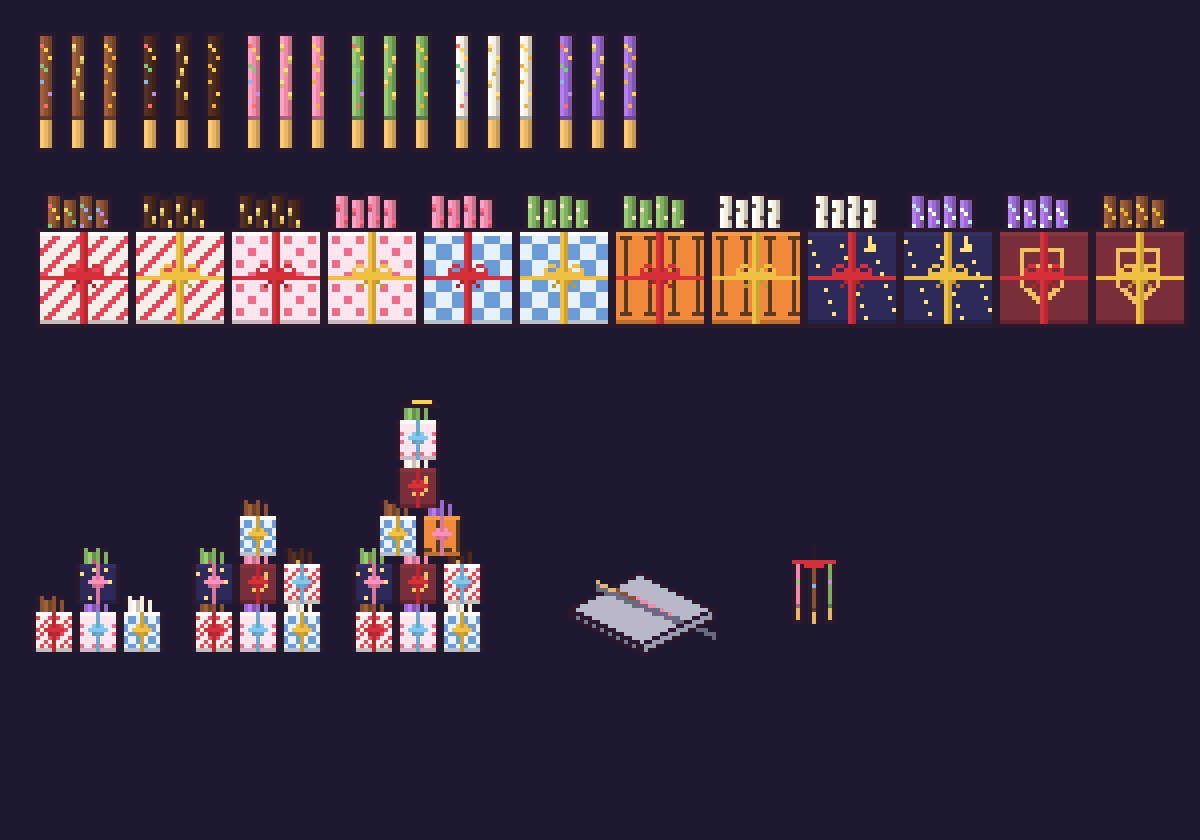
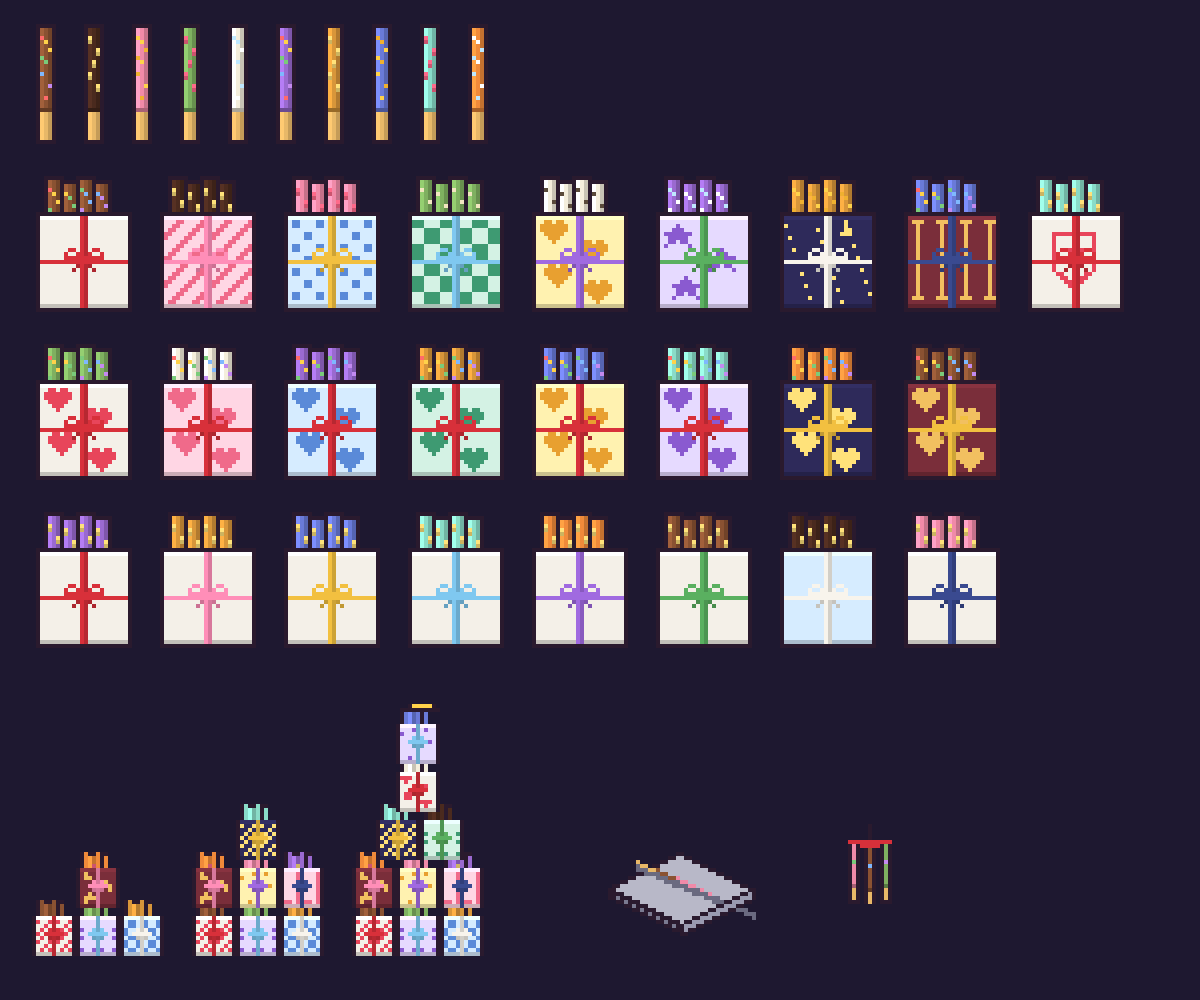
Stick snack day: 10 flavors, 9 box patterns incl. heart, 8 box colors, 8 ribbons
Claude-Session: https://claude.ai/code/session_01HhJ2NoNCjk5kaA3GWL7UDs

diff --git a/tools/stickday/stickday_plan.md b/tools/stickday/stickday_plan.md
@@ -40,13 +40,15 @@
 ## 4. 꾸미기
 | 고르는 것 | 가짓수 | 예 |
 |---|---|---|
-| 초콜릿 | 6 | 밀크 · 다크 · 딸기 · 녹차 · 화이트 · 유령 보라 |
+| 초콜릿 | 10 | 밀크 · 다크 · 딸기 · 녹차 · 화이트 · 유령 보라 · 캐러멜 · 블루베리 · 민트 · 호박 |
 | 뿌리개 | 8 | 없음 · 알록 · 별 · 하트 · 호박씨 · 해바라기씨 · 별가루 · 금가루 |
-| 상자 | 6 | 줄무늬 · 땡땡이 · 체크 · 호박 · 밤하늘 · 학교 문장 |
-| 리본 | 4 | 빨강 · 분홍 · 금색 · 하늘 |
+| 상자 무늬 | 9 | 민무늬 · 줄무늬 · 땡땡이 · 체크 · 하트 · 별 · 밤하늘 · 호박 · 학교 문장 |
+| 상자 색 | 8 | 크림 · 분홍 · 하늘 · 민트 · 레몬 · 연보라 · 남색 · 와인 |
+| 리본 | 8 | 빨강 · 분홍 · 금색 · 하늘 · 보라 · 초록 · 흰색 · 남색 |
 
+- 무늬와 색을 따로 골라서 상자 모양이 72 가지예요. 리본까지 합치면 576 가지예요.
 - 뿌리개 일부는 재료가 필요해요: 호박씨 · 해바라기씨 · 별가루 · 금가루는 그 채집물 1 개씩.
-- 초콜릿 색 재료는 지금 있는 채집물로 해요: 딸기 = 산딸기, 녹차 = 고사리, 유령 보라 = 유령 꽃.
+- 초콜릿 색 재료는 지금 있는 채집물로 해요: 딸기 = 산딸기, 녹차 = 고사리, 유령 보라 = 유령 꽃, 블루베리 = 블루베리, 민트 = 개박하, 호박 = 호박씨. 밀크 · 다크 · 화이트 · 캐러멜은 재료 없이 돼요.
 - 쪽지는 40 자까지 써요. 안 써도 돼요.
 
 ## 5. 보내기
@@ -105,7 +107,7 @@ NPC에게
 - `me.stk = { ev, hi, sent { uid: 1 }, npc { id: 1 }, made, got }`
 
 ## 12. 그림 · 소리 (만들 것)
-- 막대과자 상자 6 종 × 리본 4 색 (겹쳐 그리기), 초콜릿 막대 6 색 + 뿌리개 8 종
+- 상자 무늬 9 × 색 8 × 리본 8 (겹쳐 그리기), 초콜릿 막대 10 색 + 뿌리개 8 종
 - 막대 틀 소품 (과자 교실 오븐 옆), 광장 가로등 장식
 - 가구 「과자 탑」 3 단계, 액자 「완벽한 막대」
 - 미니게임 화면 3 개
